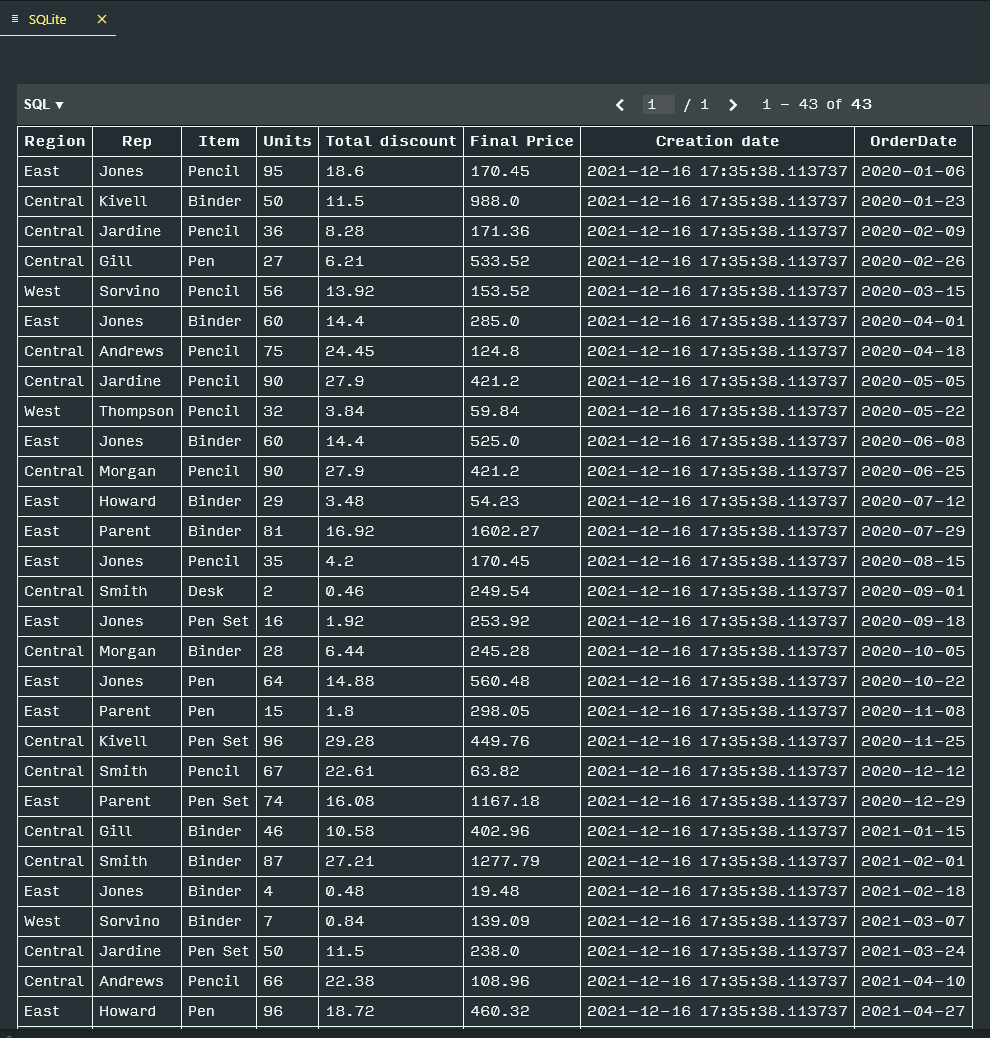
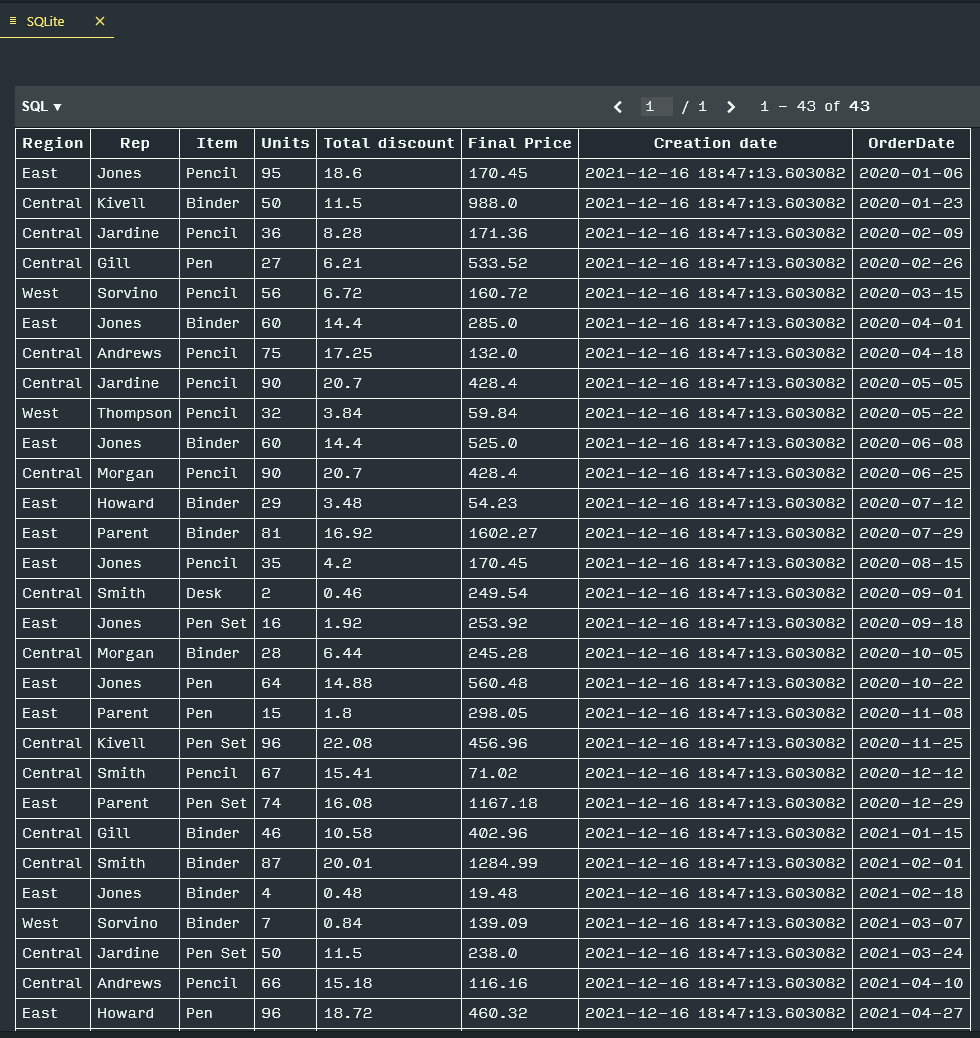
FIX error, UPDATE output images

Changed region(s): [[0.0, 0.0925, 1.0, 1.0], [0.0306, 0.0, 0.0612, 0.0308]]

diff --git a/script.py b/script.py
@@ -33,7 +33,7 @@ def scrape_table(URL):
 def total_discount(row):
     region_unit_discount = 0.23 if row['Region'] == 'Central' else 0.12
     discount = row['Units'] * region_unit_discount
-    if row['Units'] > 50:
+    if row['Region'] == 'East' and row['Units'] > 50:
         discount += 7.2
     return discount
 
